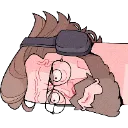
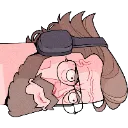
turning head

diff --git a/src/App.tsx b/src/App.tsx
@@ -34,7 +34,10 @@ const SPEEDS = [
 ];
 
 const IMAGE_NAMES = [
-  "zhead",
+  "zhead_up",
+  "zhead_right",
+  "zhead_down",
+  "zhead_left",
   "zess-plush",
   "zneck_straight_vertical_plain",
   "zneck_straight_horizontal_plain",
@@ -76,8 +79,38 @@ function directionFromTo(a: Point, b: Point): DirectionName | "" {
   return "";
 }
 
-function pieceForSegment(snake: Point[], index: number): ImageName {
-  if (index === 0) return "zhead";
+function pieceForSegment(
+  snake: Point[],
+  index: number,
+  head_direction: Point,
+): ImageName {
+  if (index === 0) {
+    // Compare by vector values
+    if (
+      head_direction.x === DIRECTIONS.up.x &&
+      head_direction.y === DIRECTIONS.up.y
+    ) {
+      return "zhead_up";
+    }
+    if (
+      head_direction.x === DIRECTIONS.right.x &&
+      head_direction.y === DIRECTIONS.right.y
+    ) {
+      return "zhead_left";
+    }
+    if (
+      head_direction.x === DIRECTIONS.down.x &&
+      head_direction.y === DIRECTIONS.down.y
+    ) {
+      return "zhead_down";
+    }
+    if (
+      head_direction.x === DIRECTIONS.left.x &&
+      head_direction.y === DIRECTIONS.left.y
+    ) {
+      return "zhead_right";
+    }
+  }
 
   const current = snake[index];
   const previous = snake[index - 1];
@@ -112,6 +145,7 @@ function drawGame(
   snake: Point[],
   food: Point,
   images: Partial<Record<ImageName, HTMLImageElement>>,
+  direction: Point = DIRECTIONS.right,
 ) {
   const context = canvas.getContext("2d");
   if (!context) return;
@@ -167,7 +201,7 @@ function drawGame(
 
   for (let index = snake.length - 1; index >= 0; index -= 1) {
     const point = snake[index];
-    const image = images[pieceForSegment(snake, index)];
+    const image = images[pieceForSegment(snake, index, direction)];
 
     if (image?.complete && image.naturalWidth > 0) {
       context.drawImage(
@@ -233,6 +267,7 @@ function App() {
       snakeRef.current,
       foodRef.current,
       imagesRef.current,
+      directionRef.current,
     );
   }, []);
 
